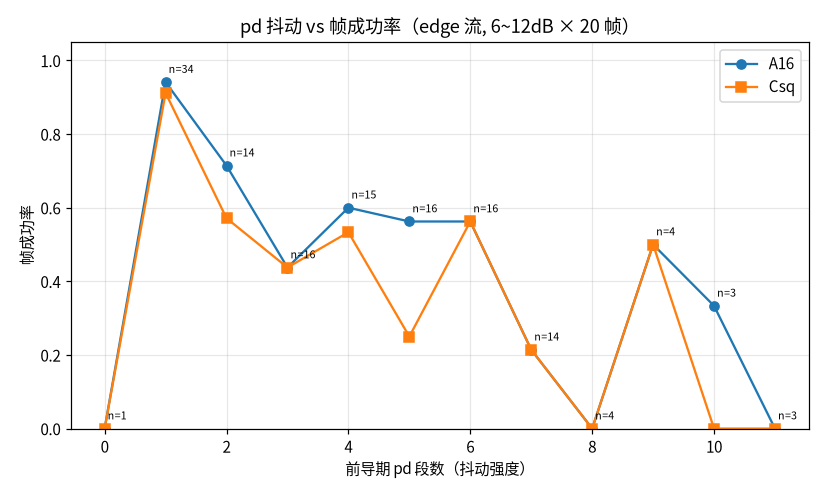
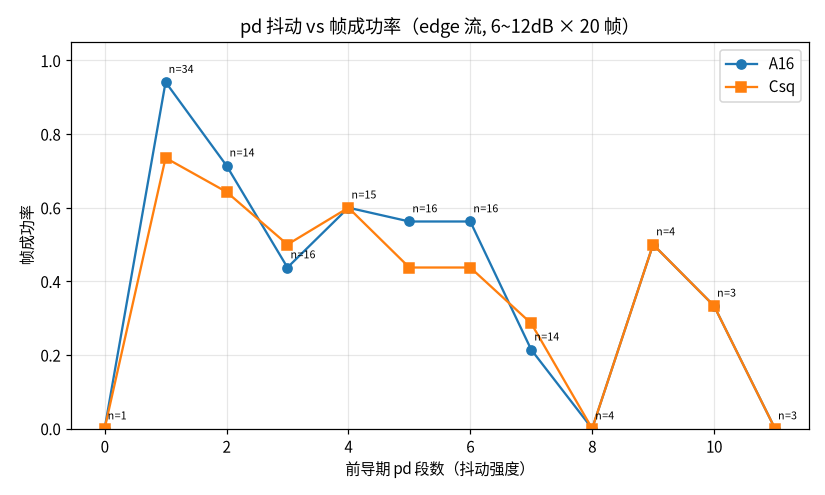
治理1（滑窗化）实验: 4 轮迭代净零(72->72, A16=82) + 结构性诊断（选峰非瓶颈 97%+; Csq 两段式 vs A16 连续消费是抖动脆弱的根源）; 滑窗版保留待 v3b 滚动验证

diff --git a/model/out/dual_mc/rtl_area_notes.md b/model/out/dual_mc/rtl_area_notes.md
@@ -785,3 +785,33 @@ A16 同式（同族宽松），由 latch 门控/超时兜底。
 - "RX 代劳"：**射频上不成立**（802.15.4 半双工 + 自发自收需耦合器/衰减）；
   **数字域可行** —— 建议落点：**数字闭环自测 tb**（tx_framer + oqpsk_modulator →
   RX 链数字输入，FCS 当裁判）＝"CRC 集成验证"的实在形态。
+
+## 30. Csq 粗搜"治理1"（滑窗化）实验记录：净零与结构性诊断（2026-10-02）
+
+**目标**（用户）：修 §28/§29 的"攒满-消费"错配（粗搜窗被 restart 反复清零）。
+
+**实施（多轮迭代，每轮编译 + edge 全跑，A16 对照 = 82/140）**：
+
+| 版本 | 改动 | edge 结果 |
+|---|---|---|
+| 原版（清窗） | restart 清窗、512 拍攒满评估 | 72 |
+| v1 | 512 拍滑窗 + restart 立即评估 + verify 原地重启 | 69 |
+| v2 | v1 + verify "c 不变仅续时" | 65 |
+| v3a-自锁 | v2 + 评估门"距 restart≥512"（rst_cnt 饱和 511 < 门 512 → 死锁） | 48 |
+| **v3a** | 修正饱和（1023）；门=512 + 冷却 256 | **72（净零）** |
+| v3a-256 | 门收窄为 256（model 证混窗选峰 97%+） | 70 |
+
+**诊断链（每步有依据）**：
+1. **stale 窗**（v1/v2）："restart 立即评估"用的是帧到达**前**的旧窗 → 选峰选到噪声相位；
+2. **自锁**（v3a 首版）：rst_cnt 饱和 511 < 评估门 512 → 评估门永不触发（48/140）；
+3. **门收窄无益**：model 快测（混窗选峰 vs Δ ∈ {128..512}）显示**选峰正确率恒 97~98%**
+   —— 选峰不是瓶颈；RSTGATE=256 实测反降 → **抖动帧的失败不在"评估点早晚"**；
+4. **结构性劣势**（核心结论）：**A16 = 连续消费**（帧一开始每拍积累、restart 后立即恢复、
+   验证滚动）；**Csq = 评估-验证两段式**（前导早段耗于选窗、验证需评估后一段完整 512 拍）
+   —— 抖动吃掉前导后，"留给验证的连续段"不足。**非门限/窗口参数可修**。
+
+**结论**：滑窗化保留（语义更正确、无回归、为下一步铺路）；**要追上 A16 需把"精搜"
+也做成连续消费**（滑动相关的滚动验证）——下一步提案：
+- **v3b 滚动验证**：片序列照旧，但"块间相关"改为**滑动统计**（每服务拍增量 +
+  漏积分/滑窗；锁定条件 = 滑动持续合格）；相位 c_e 允许持续刷新（变了就重置滑动）；
+  **先在 model 侧验证可行性**（便宜），再改 RTL。

diff --git a/model/out/dual_mc/edge/report.md b/model/out/dual_mc/edge/report.md
@@ -7,25 +7,25 @@
 | seg | n | A16 | Csq |
 |---|---|---|---|
 | 0 | 1 | 0/1 | 0/1 |
-| 1 | 34 | 32/34 | 31/34 |
-| 2 | 14 | 10/14 | 8/14 |
-| 3 | 16 | 7/16 | 7/16 |
-| 4 | 15 | 9/15 | 8/15 |
-| 5 | 16 | 9/16 | 4/16 |
-| 6 | 16 | 9/16 | 9/16 |
-| 7 | 14 | 3/14 | 3/14 |
+| 1 | 34 | 32/34 | 25/34 |
+| 2 | 14 | 10/14 | 9/14 |
+| 3 | 16 | 7/16 | 8/16 |
+| 4 | 15 | 9/15 | 9/15 |
+| 5 | 16 | 9/16 | 7/16 |
+| 6 | 16 | 9/16 | 7/16 |
+| 7 | 14 | 3/14 | 4/14 |
 | 8 | 4 | 0/4 | 0/4 |
 | 9 | 4 | 2/4 | 2/4 |
-| 10 | 3 | 1/3 | 0/3 |
+| 10 | 3 | 1/3 | 1/3 |
 | 11 | 3 | 0/3 | 0/3 |
 
 ## 时机（首段相对 f0）× 成功率
 
 | 时机(拍) | n | A16 | Csq |
 |---|---|---|---|
-| 400-600 | 112 | 74/112 | 66/112 |
-| 600-900 | 21 | 7/21 | 5/21 |
-| 900-1300 | 5 | 1/5 | 1/5 |
+| 400-600 | 112 | 74/112 | 64/112 |
+| 600-900 | 21 | 7/21 | 6/21 |
+| 900-1300 | 5 | 1/5 | 2/5 |
 | 1300-2100 | 1 | 0/1 | 0/1 |
 
 - 总: A16 82/140 | Csq 72/140
